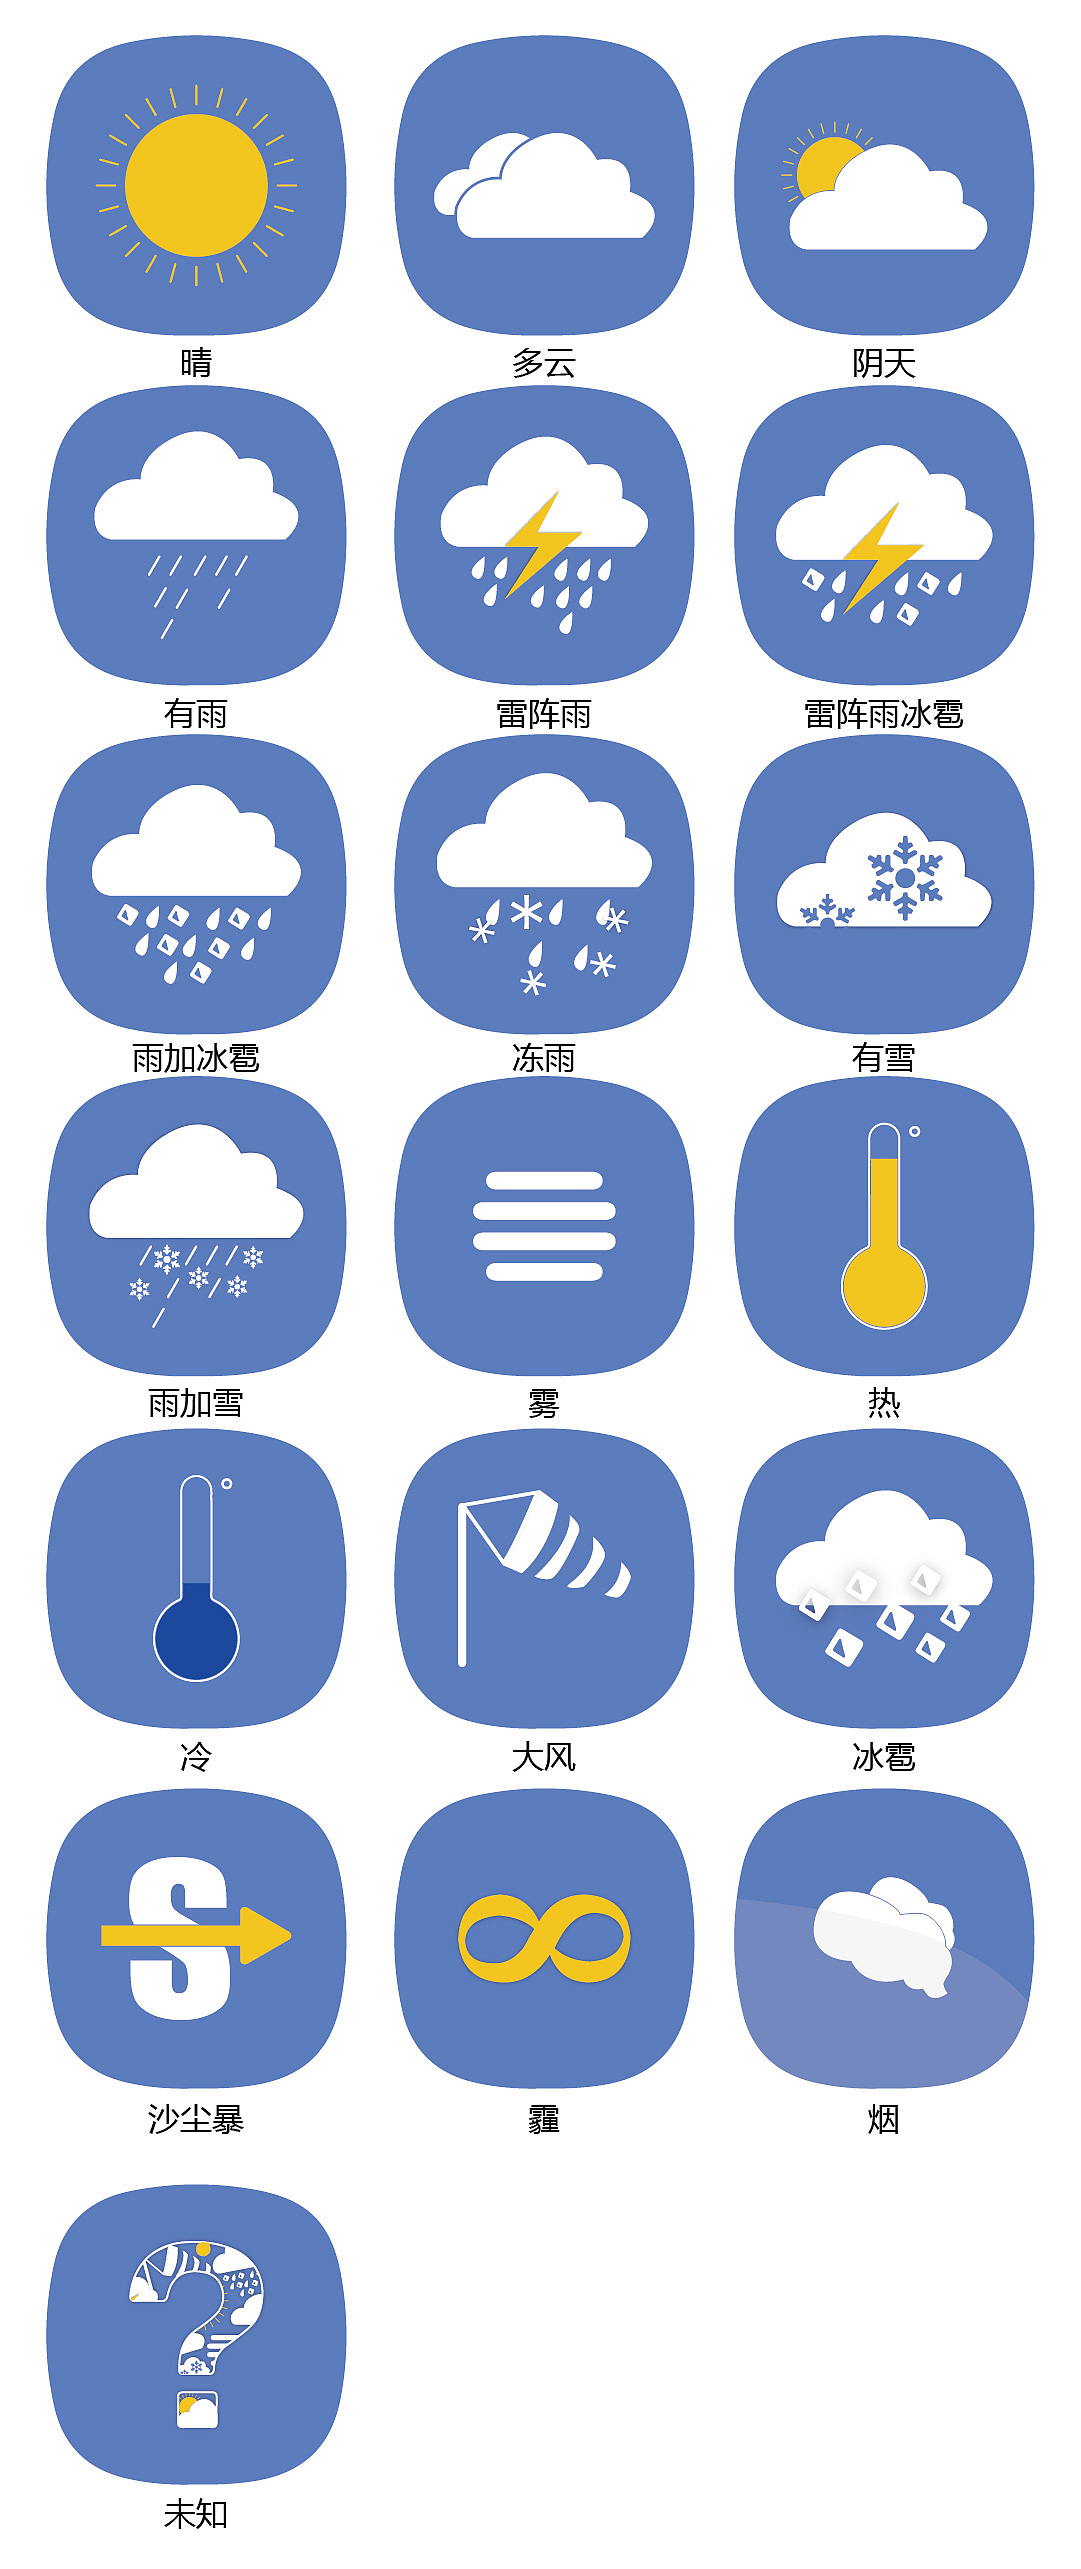
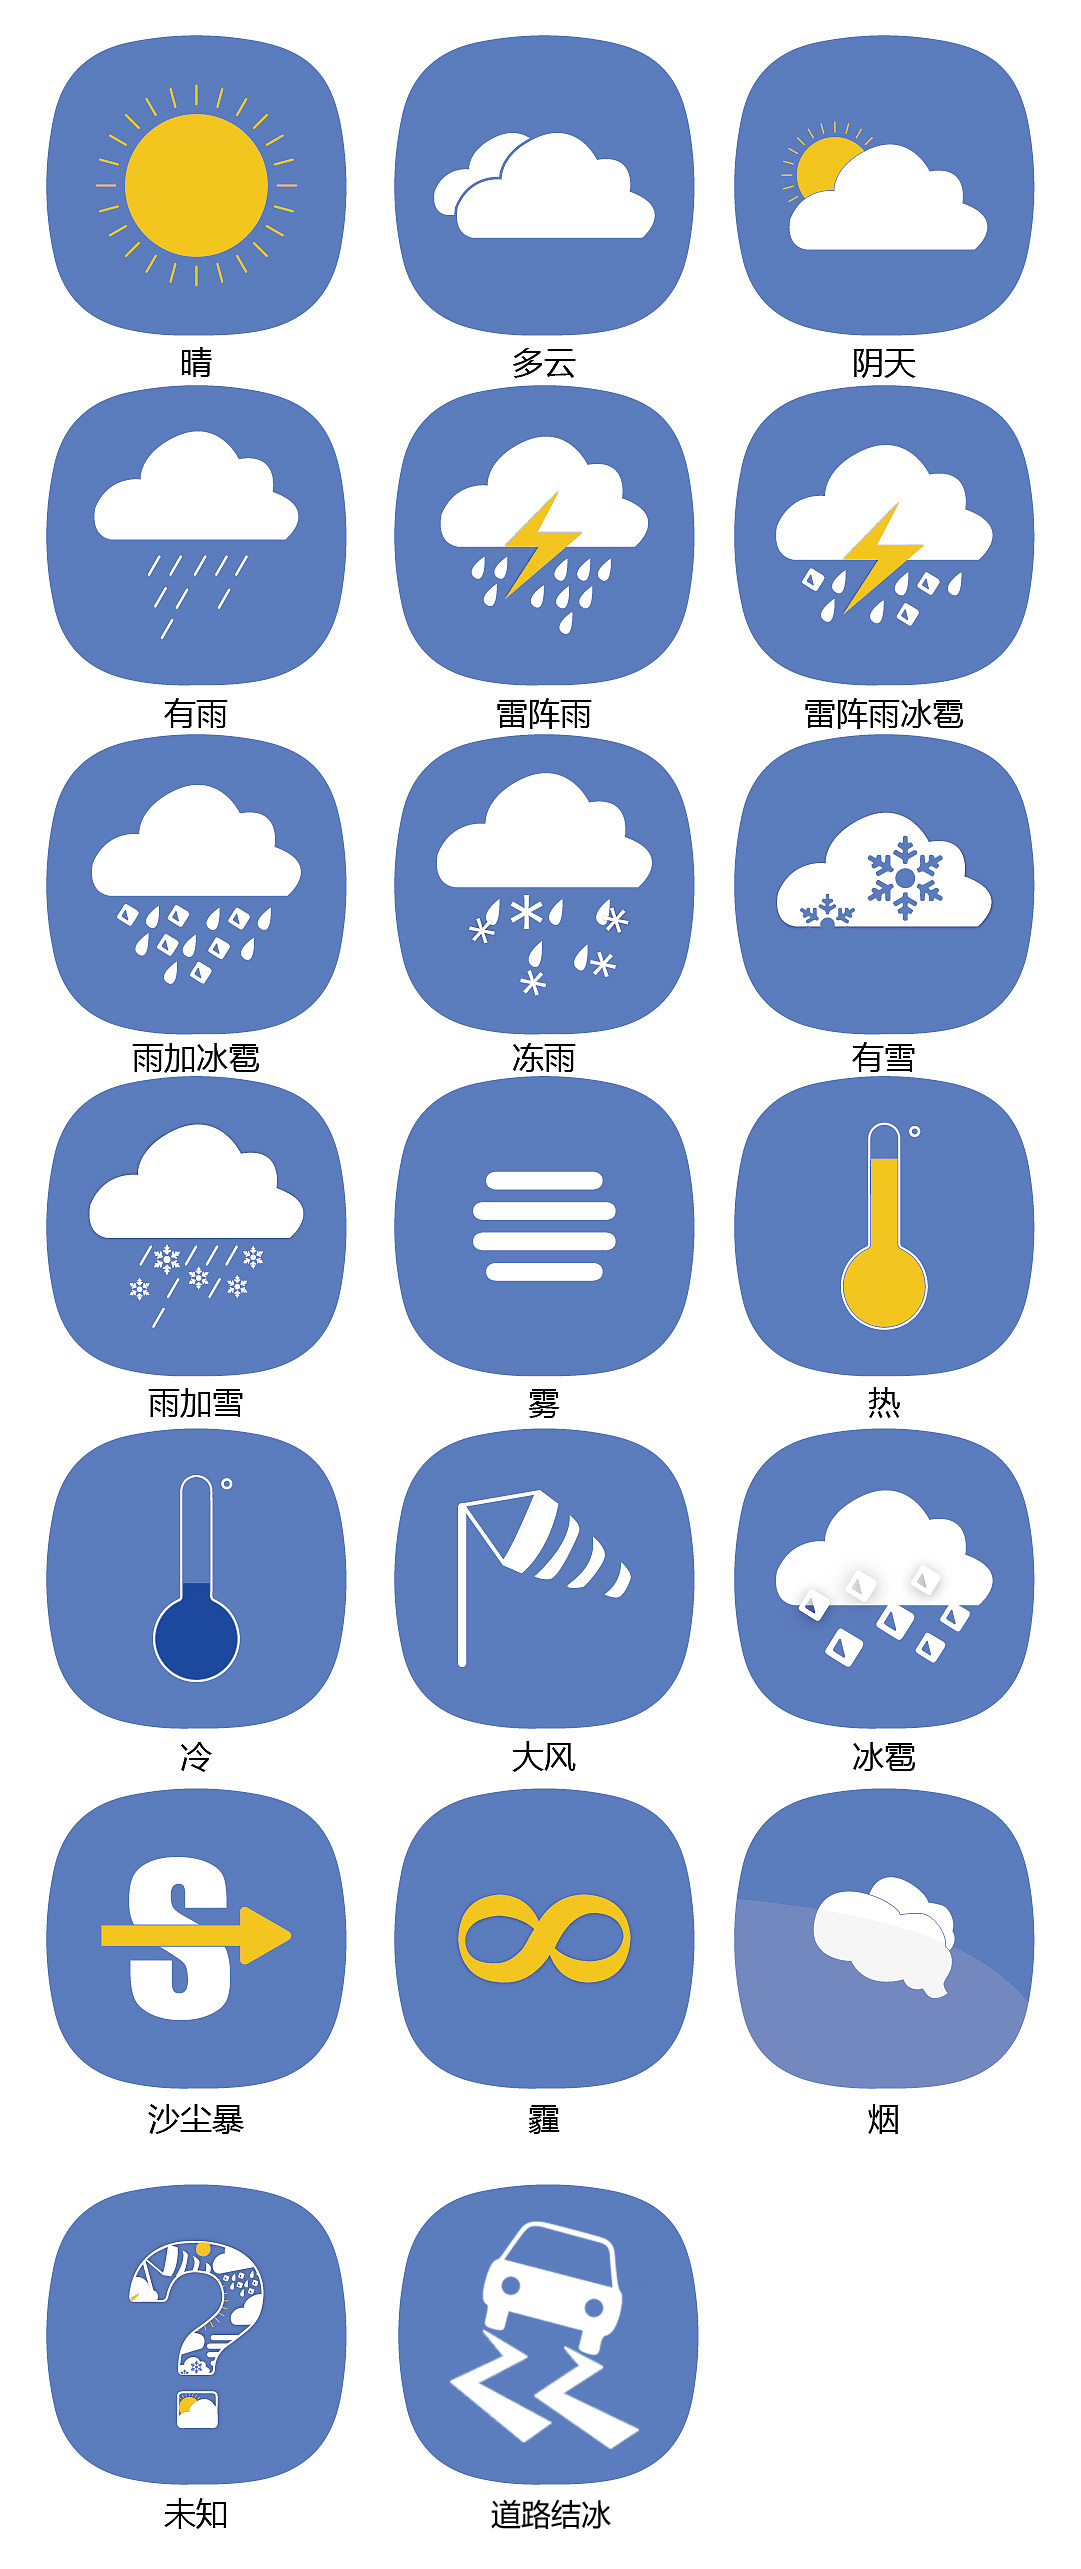
feat scences

Changed region(s): [[0.3663, 0.8408, 0.6716, 0.9965]]

diff --git a/src/data/common.js b/src/data/common.js
@@ -68,17 +68,57 @@ export const SuggestType = Object.freeze([
   { value: 4, title: '其他', des: '请输入使用智能产品过程中的咨询类问题，如账号、云空间等相关问题' }
 ])
 
-// 设备类型-------------------------------------------------------------------------------------------
-const scenesA = { weatherScenes: [{ type: 'sunny', index: 0 }] }
-const scenesRG = { lightScenes: [{ type: 'red', index: 0 }, { type: 'green', index: 1 }] }
-const scenesW = { weatherScenes: [{ type: 'sunny', index: 0 }, { type: 'fog', index: 1 }, { type: 'rain-snow', index: 2 }], roadScenes: [{ type: 'construction', index: 3 }, { type: 'trafficAccident', index: 4 }], customizeScenes: [{ type: 'customize1', index: 5 }, { type: 'customize2', index: 6 }] }
+// 播放列表类型
+const scenesOne = { weatherScenes: [{ type: 'sunny', index: 0 }] }
+const scenesTwo = {
+  weatherScenes: [
+    { type: 'sunny', index: 0 },
+    { type: 'fog', index: 1 },
+    { type: 'rain', index: 2 },
+    { type: 'rain-snow', index: 3 },
+    { type: 'freeze', index: 4 }
+  ],
+  roadScenes: [
+    { type: 'construction', index: 3 },
+    { type: 'trafficAccident', index: 4 }
+  ],
+  customizeScenes: [
+    { type: 'customize1', index: 5 },
+    { type: 'customize2', index: 6 }
+  ]
+}
+const scenesThree = scenesTwo
 
+const scenesFour = {
+  weatherScenes: [
+    { type: 'sunny', index: 0 },
+    { type: 'fog', index: 1 },
+    { type: 'rain', index: 2 },
+    { type: 'rain-snow', index: 3 },
+    { type: 'freeze', index: 4 }
+  ]
+}
+const scenesFive = {
+  lightScenes: [
+    { type: 'red', index: 0 },
+    { type: 'green', index: 1 }
+  ]
+}
+
+// 设备类型-------------------------------------------------------------------------------------------
 export const deviceType = Object.freeze([
-  { value: 'ELF-A', label: 'ELF-A', scenes: scenesA },
-  { value: 'ELF-T1-W', label: 'ELF-T1-W', scenes: scenesW },
-  { value: 'ELF-T1-RG', label: 'ELF-T1-RG', scenes: scenesRG },
-  { value: 'ELF-T2-W', label: 'ELF-T2-W', scenes: scenesW },
-  { value: 'ELF-T2-RG', label: 'ELF-T2-RG', scenes: scenesRG }
+  // ELF-A
+  { value: 'ELF-A', label: 'ELF-A', scenes: scenesOne, hasSwitch: false },
+  // TA
+  { value: 'TA-W', label: 'TA-W', scenes: scenesTwo, hasSwitch: false },
+  { value: 'TA-RG', label: 'TA-RG', scenes: scenesThree, hasSwitch: true },
+  { value: 'TA-RG-S', label: 'TA-RG-S', scenes: scenesFour, hasSwitch: true },
+  { value: 'TA-RG-C', label: 'TA-RG-C', scenes: scenesFive, hasSwitch: false },
+  // TB
+  { value: 'TB-W', label: 'TB-W', scenes: scenesTwo, hasSwitch: false },
+  { value: 'TB-RG', label: 'TB-RG', scenes: scenesThree, hasSwitch: true },
+  { value: 'TB-RG-S', label: 'TB-RG-S', scenes: scenesFour, hasSwitch: true },
+  { value: 'TB-RG-C', label: 'TB-RG-C', scenes: scenesFive, hasSwitch: false }
 ])
 
 // 设备播放方向 -------------------------------------------------------------------------------------------
@@ -122,17 +162,25 @@ export const scenesOptions = Object.freeze({
 
 // 天气场景-------------------------------------------------------------------------------------------
 const weatherScenes = Object.freeze([
-  { type: 'sunny', title: '默认场景', des: '适用于一般情况下的播放列表' },
+  // ********************
+  { type: 'sunny', title: '默认场景', des: '适用于路况良好时' },
+  // ********************
   { type: 'cloudy', title: '多云天气', des: '适用于一般情况下的播放列表' },
   { type: 'shade', title: '阴天天气', des: '适用于一般情况下的播放列表' },
-  { type: 'rain', title: '雨天天气', des: '适用于一般情况下的播放列表' },
+  // ********************
+  { type: 'rain', title: '阵雨', des: '适用于降雨天气道路湿滑时' },
+  // ********************
   { type: 'thundershower', title: '雷阵雨天气', des: '适用于一般情况下的播放列表' },
   { type: 'thundershower-hail', title: '雷阵雨冰雹天气', des: '适用于一般情况下的播放列表' },
   { type: 'rain-hail', title: '雨加冰雹天气', des: '适用于一般情况下的播放列表' },
   { type: 'freezing-rain', title: '冻雨天气', des: '适用于一般情况下的播放列表' },
   { type: 'snow', title: '雪天天气', des: '适用于一般情况下的播放列表' },
-  { type: 'rain-snow', title: '雨雪天气', des: '适用于雨雪天气下的播放列表' },
-  { type: 'fog', title: '浓雾天气', des: '适用于浓雾天气情况下的播放列表' },
+  // ********************
+  { type: 'rain-snow', title: '积雪', des: '适用于降雪天气道路积雪时' },
+  // ********************
+  // ********************
+  { type: 'fog', title: '浓雾', des: '适用于浓雾及其他行车视线较差时' },
+  // ********************
   { type: 'heat', title: '高温天气', des: '适用于一般情况下的播放列表' },
   { type: 'cold', title: '低温天气', des: '适用于一般情况下的播放列表' },
   { type: 'gale', title: '大风天气', des: '适用于一般情况下的播放列表' },
@@ -140,13 +188,16 @@ const weatherScenes = Object.freeze([
   { type: 'sandstorm', title: '沙尘暴天气', des: '适用于一般情况下的播放列表' },
   { type: 'haze', title: '雾霾天气', des: '适用于一般情况下的播放列表' },
   { type: 'smoke', title: '浓烟天气', des: '适用于一般情况下的播放列表' },
-  { type: 'unknown', title: '未知', des: '适用于一般情况下的播放列表' }
+  { type: 'unknown', title: '未知', des: '适用于一般情况下的播放列表' },
+  // ********************
+  { type: 'freeze', title: '结冰', des: '适用于路面发生结冰时' }
+  // ********************
 ])
 
 // 道路场景-------------------------------------------------------------------------------------------
 const roadScenes = Object.freeze([
   { type: 'construction', title: '道路施工', des: '适用于前方道路施工时' },
-  { type: 'trafficAccident', title: '交通事故', des: '适用于前方交通事故时' }
+  { type: 'trafficAccident', title: '交通事故', des: '适用于前方发生交通事故时' }
 ])
 
 // 自定义场景-------------------------------------------------------------------------------------------
@@ -157,8 +208,8 @@ const customizeScenes = Object.freeze([
 
 // 交通灯场景-------------------------------------------------------------------------------------------
 const lightScenes = Object.freeze([
-  { type: 'red', title: '红灯', des: '适用于红灯亮起情况下的播放列表' },
-  { type: 'green', title: '绿灯', des: '适用于绿灯亮起情况下的播放列表' }
+  { type: 'red', title: '红灯', des: '适用于红色信号灯开启时' },
+  { type: 'green', title: '绿灯', des: '适用于绿色信号灯开启时' }
 ])
 
 // 场景集合-------------------------------------------------------------------------------------------

diff --git a/src/views/device/deviceDetail.vue b/src/views/device/deviceDetail.vue
@@ -23,9 +23,10 @@
     </div>
     <div class="device-detail-playlist">
       <div class="device-detail-playlist-list">
-        <template v-for="(item, key) in scenes">
+        <template v-for="(item, key) in scenes.scenes">
           <device-form-play-list
             v-for="i in item"
+            :hasSwitch='scenes.hasSwitch'
             :key="i.type"
             :type='i.type'
             :scenes='key'
@@ -34,6 +35,7 @@
             :disabled='disabled'
             :playlist='playlist'
             :index='i.index'
+            @changeColor='changeColor'
             @updateInfo='updateInfo'
             @updatePlaylist='updatePlaylist'
             @addPlaylist='showDrawer'
@@ -59,7 +61,7 @@ import DeviceState from '@/components/DeviceState.vue'
 import DeviceInfo from '@/components/DeviceInfo.vue'
 import BaseDrawerMedia from '@/components/BaseDrawerMedia.vue'
 import { infoDevice } from '@/api/device'
-import { getPlaylist, updateContent } from '@/api/playlist'
+import { getPlaylist, updateContent, setColor } from '@/api/playlist'
 import { deviceType } from '@/data/common'
 export default {
   name: 'device-detail',
@@ -72,7 +74,7 @@ export default {
     },
     scenes () {
       const scenes = deviceType.find(item => item.value === this.info.type)
-      return scenes ? scenes.scenes : deviceType[0].scenes
+      return scenes || deviceType[0]
     }
   },
 
@@ -142,6 +144,19 @@ export default {
           this.playlist = res.list
         })
         .catch(e => console.log(e))
+    },
+
+    async changeColor (playlist, index, value) {
+      console.log(value)
+      const id = playlist[index].id
+      this.loading = true
+      await setColor(id, { playlistid: id, color: value })
+        .then(res => {
+          this.$message({ type: 'success', message: res.msg })
+        })
+        .catch(e => console.log(e))
+      await this.getPlaylists()
+      this.loading = false
     },
 
     async setPlaylist () {

diff --git a/src/components/DeviceFormPlayList.vue b/src/components/DeviceFormPlayList.vue
@@ -11,7 +11,22 @@
     <div class="play-list-header">
       <span class="scenes-img" :class="[type, scenes]"></span>
       <div class="scenes-info">
-        <h3 class="scenes-info_title ellipsis-1">{{title}}</h3>
+        <div class="scenes-info-top">
+          <h3 class="scenes-info_title ellipsis-1">{{title}}</h3>
+          <el-switch
+            v-if="hasSwitch"
+            :disabled='disabled'
+            :value="lightColor"
+            :active-value="2"
+            :inactive-value="1"
+            active-color="#13ce66"
+            active-text="绿色"
+            inactive-text="红色"
+            inactive-color="#ff4949"
+            @change="changeColor"
+          >
+          </el-switch>
+        </div>
         <p class="scenes-info_des ellipsis-2">{{des}}</p>
       </div>
     </div>
@@ -87,6 +102,10 @@ export default {
       validator: (val) => {
         return !!playlistType[val]
       }
+    },
+    hasSwitch: {
+      type: Boolean,
+      default: false
     }
   },
 
@@ -99,6 +118,13 @@ export default {
     },
     length () {
       return this.scenesList.length
+    },
+    lightColor () {
+      if (this.playlist.length > 0 && this.index !== undefined) {
+        return this.playlist[this.index] ? this.playlist[this.index].color : 0
+      } else {
+        return 0
+      }
     }
   },
 
@@ -125,6 +151,10 @@ export default {
       }).catch(() => {
 
       })
+    },
+
+    changeColor (e) {
+      this.$emit('changeColor', this.playlist, this.index, e)
     },
 
     updateInfo () {
@@ -212,6 +242,7 @@ export default {
     margin-left: 18px;
     font-size: 13px;
     &_title{
+      flex: 1;
       line-height: 30px;
       color: #4e4e4f;
     }
@@ -227,5 +258,9 @@ export default {
 }
 .cell-move {
   transition: transform 1s;
+}
+.scenes-info-top{
+  display: flex;
+  align-items: center;
 }
 </style>

diff --git a/src/styles/scenes.scss b/src/styles/scenes.scss
@@ -59,16 +59,19 @@
 .unknown{
   background-position: -7px -382px;
 }
+.freeze{
+  background-position: -67px -382px;
+}
 
 /*交通场景 -67px -70px-----------------------------------------------------------------*/
 .roadScenes{
   background-image: url('../assets/common/roadScenes.jpg');
   background-size: 390px!important;
 }
-.construction{
+.trafficAccident{
   background-position: -335px -339px
 }
-.trafficAccident{
+.construction{
   background-position: -268px -407px
 }
 /*交通灯场景-----------------------------------------------------------------*/

diff --git a/src/mixins/page.js b/src/mixins/page.js
@@ -18,8 +18,13 @@ export default {
     noMore () {
       return !this.isInit && this.pageList.length >= this.pageTotal
     },
-    scrollDisabled () {
-      return this.pageLoading || this.noMore
+    scrollDisabled: {
+      get () {
+        return this.pageLoading || this.noMore
+      },
+      set (val) {
+        this.scrollDisabled = true
+      }
     }
   },
 
@@ -39,6 +44,7 @@ export default {
         })
         .catch(e => {
           console.log(e)
+          this.scrollDisabled = true
         })
       this.pageLoading = false
     },

diff --git a/public/config.js b/public/config.js
@@ -1,6 +1,6 @@
 window.globalConfig = {
-  api_url: 'http://47.114.6.168:8080',
-  ws_url: 'ws://47.114.6.168:8080/websocket/android/'
-  // api_url: 'http://39.100.241.240:11000',
-  // ws_url: 'ws://39.100.241.240/websocket/android/'
+  // api_url: 'http://47.114.6.168:8080',
+  // ws_url: 'ws://47.114.6.168:8080/websocket/android/'
+  api_url: 'http://39.100.241.240:11000',
+  ws_url: 'ws://39.100.241.240/websocket/android/'
 }

diff --git a/src/api/playList/index.js b/src/api/playList/index.js
@@ -19,3 +19,11 @@ export function updateContent (params, paramsSerializer) {
     }
   })
 }
+// 设置颜色
+export function setColor (id, params) {
+  return http({
+    url: `/device/playlist/color/${id}`,
+    method: 'POST',
+    params
+  })
+}
